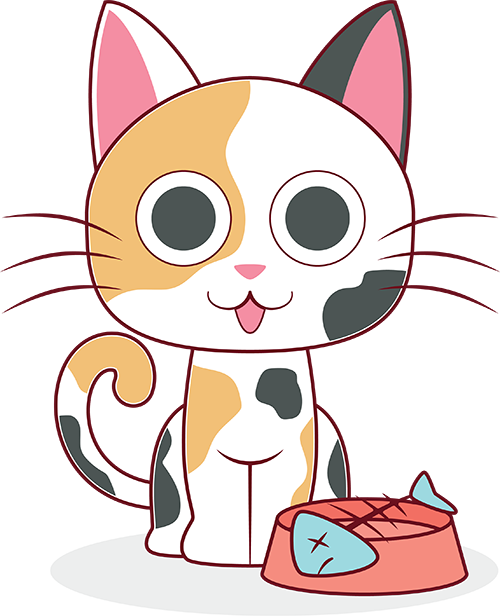
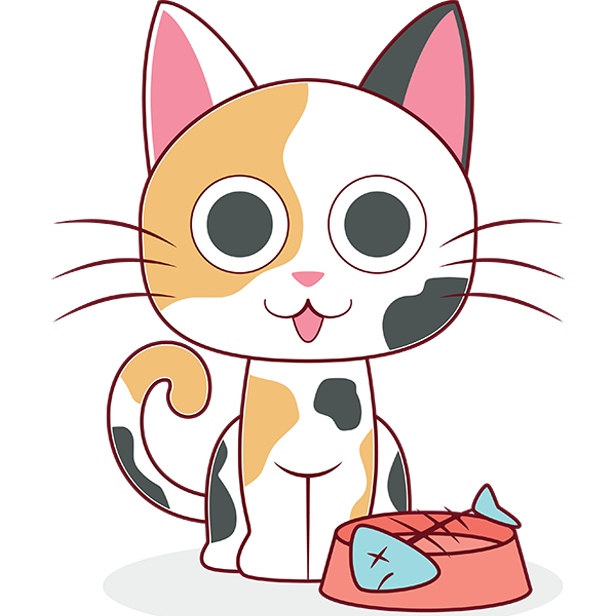
i

Changed region(s): [[0.03, 0.0, 0.99, 1.0], [0.96, 0.4935, 0.99, 0.5244], [0.0, 0.4318, 0.03, 0.4627]]

diff --git a/projects/flexboxIRL/css/flexbox_irl.css b/projects/flexboxIRL/css/flexbox_irl.css
@@ -13,6 +13,8 @@ justify-content: start | end | center et al;
 /* 1. reset the margin and padding to 0 using the universal selector */
 * {
 	box-sizing: border-box;
+	margin: 0;
+	padding: 0;
 	/* let's come back to what box-sizing means - it will make more sense when we can visualize it. */
 }
 
@@ -28,12 +30,18 @@ body {
 
 header {
 	background-color: #F2F2F2;
+	display: flex;
+	flex-direction: row;
+	flex-wrap: nowrap;
+	justify-content: space-between;
+	align-content: center;
+	align-items: center;
 }
 
 /* now we have a basic header set up, logo on the left, a title in the center and navigation on the right - so let's stylize a little further */
 
 #logo {
-	background-color: pink;
+	width: 12%;
 	/* 3. adjust the width of the image until you are happy. you can play with margins and padding - leave the background color on to see how it affects its neighbors */
 
 	/* background color is to show space taken up by element, delete when complete */
@@ -45,7 +53,7 @@ h1 {
 	font-size: 48px;
 	text-align: center;
 	letter-spacing: .0125em;
-	background-color: orange;
+	align-self: center;
 
 	/* 4. because the <h1> is a flex-item, or the child of a flex-container, we can use what is called align-self: self-end on the child, adjust it to center or the bottom */
 
@@ -53,7 +61,14 @@ h1 {
 }
 
 nav {
-	background-color: yellow;
+	display: flex;
+	flex-direction: row;
+	flex-wrap: nowrap;
+	justify-content: space-between;
+	align-items: end;
+	width: 25%;
+	padding: 2%;
+	font-family: "futura-pt", sans-serif;
 /* background color is to show space taken up by element, delete when complete */
 
 /* 5. the nav has child elements right? so therefor the nav can also be a flex-container as well. Lets do that now. */
@@ -106,12 +121,23 @@ code {
 /* -------section styles */
 
 section {
+	display: flex;
+	flex-direction: row;
+	flex-wrap: nowrap;
+	justify-content: space-between;
+	margin-right: 2%;
+	margin-left: 2%;
+	padding: 2%;
 	/*7. the section is yet another opportunity to set up a flex-container, let's do that.  */
 	/* 8. let's also set a right and left margin */
 }
 
+h2, h3 {
+	text-align: center;
+}
+
 article {
-	border: 1px dashed yellow;
+	width: 30%;
 	/* border is just to show space, be sure to delete it when complete */
 /*  9. let's set a width - remember that it will be a percentage of the parent container */
 }
@@ -122,7 +148,7 @@ p {
 }
 
 .articleImg {
-background-color: antiquewhite;
+	width: 100%;
 
 
 /*  10. let's set a width - remember that it will be a percentage of the parent container */
@@ -143,7 +169,7 @@ h4 {
 	text-shadow: 1px 1px #0d0d0d;
 	font-size: 36px;
 	text-align: center;
-	/* padding: ; */
+	padding: 2%;
 }
 
 footer {

diff --git a/projects/flexboxIRL/flexbox_irl.html b/projects/flexboxIRL/flexbox_irl.html
@@ -8,14 +8,14 @@
 	<link rel="stylesheet" href="https://use.typekit.net/azk2aca.css">
 </head>
 <body>
- <nav>
+ <div id="mainnav"><nav>
       <a href="../../index.html">home</a>
       <a href="../../about/about.html">about</a>
       <a href="../../inspo/inspo.html">inspo</a>
       <a href="../projects.html">projects</a>
       <a href="../../checkpoints/checkpoints.html">checkpoints</a>
-  </nav>
-  
+  </nav></div> 
+
 	<header>
 		<img id="logo" src="img/redSlow.gif">
 		<h1>FlexyFlexbox</h1>
@@ -71,6 +71,12 @@
 	<footer>
 		<h4>FlexyFooter</h4>
 	</footer>
+
+	<hr>
+	<br>
+	<p>
+		With this flexbox exercise I now have a better idea on how to align items when making a flex container instead of guessing and hoping for the best. I feel like I can definitely use this new information to adjust my inspo page which I have been struggling to align properly for a few weeks now. I think the main thing that I had to troubleshoot was when it came to align-self, it’s something that I frequently forget when adjusting elements and often becomes frustrating to try to find and fix, but rewarding in the end seeing the finished product. I think my main issue is getting the primary navigation bar to not interfere with the style of the navigation bar in some of these assignments. In this assignment I was able to figure out how to maintain the original state of the example navigation bar but had to sacrifice the style of the main navigation bar. Everything else went fine as I followed the lecture closely so there was little room to get lost or confused and not have to experiment until it looks how it needs to be. I think I will most likely use the tool in Photoshop to resize some of my other photos too. Overall, this exercise taught me a lot on how these properties affect flex containers and the items within them. 
+	</p>
 
 </body>
 </html>

diff --git a/css/foundationalstyle.css b/css/foundationalstyle.css
@@ -1,3 +1,4 @@
+
 a {
     text-decoration: none;
     color: #cacaca;
@@ -12,7 +13,6 @@ nav {
     display: flex;
     justify-content: center;
     align-items: center;
-    font-size: 20px;
     font-family: 'Franklin Gothic Medium', 'Arial Narrow', Arial, sans-serif;
     text-align: center;
     gap: 4%;
